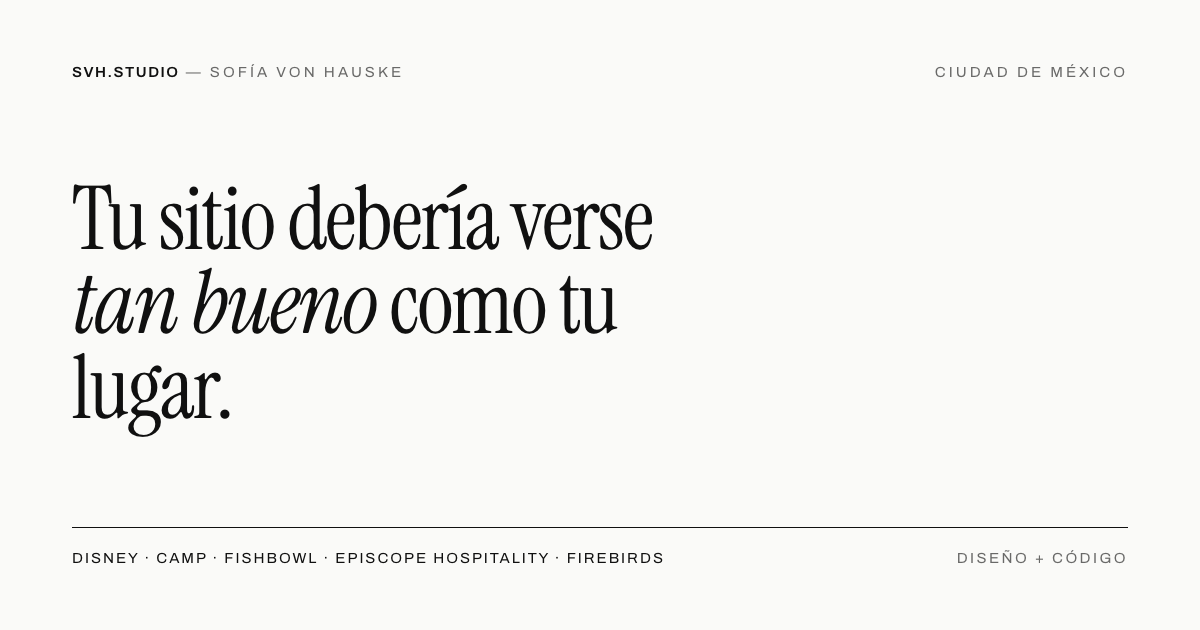
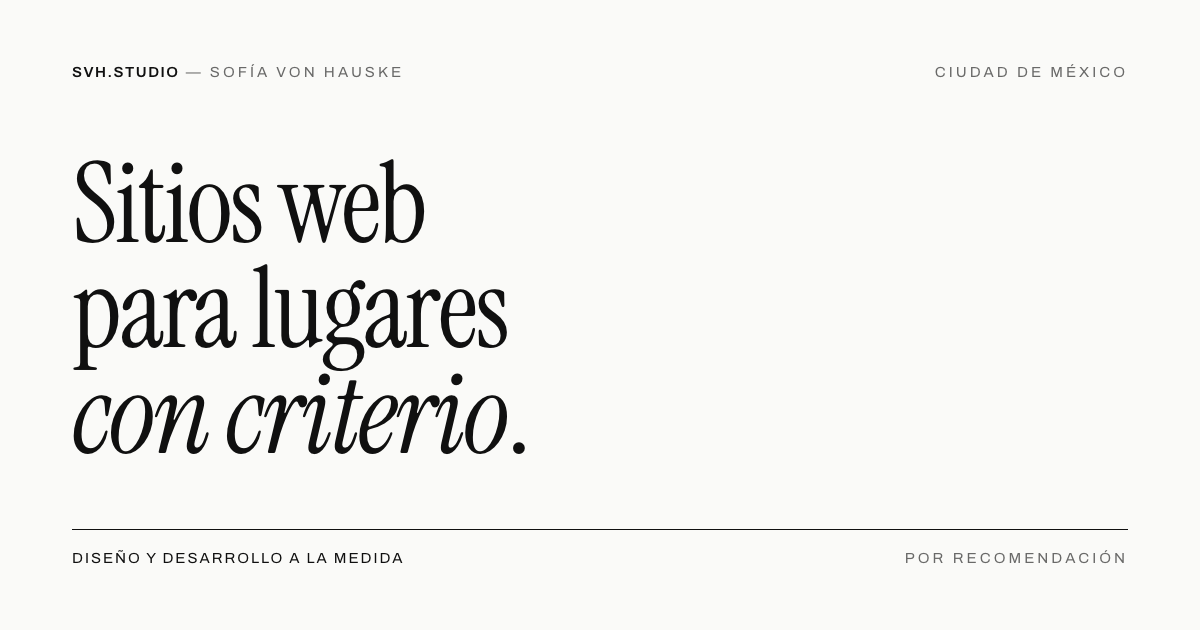
Copy: más preciso, más técnico, sin vender
Titular "Sitios web para lugares con criterio"; la entrada nombra lo que
se construye (código propio, panel, SEO técnico) y que el estudio trabaja
por recomendación. Pies con contexto y datos técnicos verificables;
Estudio con fichas de Capacidades y Clientes; Nuevos proyectos sin la
promesa de "el mismo día"; colofón que dice cómo está hecho el sitio.
Fuera del JSON-LD el catálogo de paquetes que ya no existe. og.png nuevo.

diff --git a/index.html b/index.html
@@ -3,8 +3,8 @@
 <head>
 <meta charset="utf-8">
 <meta name="viewport" content="width=device-width, initial-scale=1">
-<title>Sitios web para restaurantes en CDMX — SvH Studio</title>
-<meta name="description" content="Diseño y programo sitios web a la medida para restaurantes, cafés y bares en la Ciudad de México. Con panel propio para que lo manejes tú.">
+<title>SvH Studio — Sitios web para restaurantes en CDMX</title>
+<meta name="description" content="Estudio de diseño y desarrollo web para restaurantes, cafés y bares de la Ciudad de México. Código propio, panel de administración y SEO técnico. Por recomendación.">
 <link rel="canonical" href="https://svh.studio/">
 <meta name="theme-color" content="#4F0D00">
 <meta name="color-scheme" content="light">
@@ -12,12 +12,12 @@
 <meta property="og:type" content="website">
 <meta property="og:locale" content="es_MX">
 <meta property="og:url" content="https://svh.studio/">
-<meta property="og:title" content="Sitios web para restaurantes en CDMX — SvH Studio">
-<meta property="og:description" content="Diseño y programo sitios a la medida para restaurantes, cafés y bares. Con panel propio para que lo manejes tú.">
+<meta property="og:title" content="SvH Studio — Sitios web para lugares con criterio">
+<meta property="og:description" content="Diseño y desarrollo a la medida para restaurantes, cafés y bares de la Ciudad de México.">
 <meta property="og:image" content="https://svh.studio/og.png">
 <meta property="og:image:width" content="1200">
 <meta property="og:image:height" content="630">
-<meta property="og:image:alt" content="svh.studio — Tu sitio debería verse tan bueno como tu lugar.">
+<meta property="og:image:alt" content="svh.studio — Sitios web para lugares con criterio.">
 <meta property="og:site_name" content="SvH Studio">
 <meta name="twitter:card" content="summary_large_image">
 
@@ -47,7 +47,7 @@
     "es-MX",
     "en"
    ],
-   "description": "Diseño y programación de sitios web a la medida para restaurantes, cafés y bares en la Ciudad de México, con panel de administración propio.",
+   "description": "Estudio de diseño y desarrollo web a la medida para restaurantes, cafés y bares de la Ciudad de México: código propio, panel de administración y SEO técnico.",
    "founder": {
     "@id": "https://svh.studio/#sofia"
    },
@@ -92,55 +92,18 @@
    ],
    "serviceType": [
     "Diseño de sitios web para restaurantes",
-    "Desarrollo web",
-    "Carta digital",
+    "Desarrollo web a la medida",
+    "Paneles de administración",
+    "SEO técnico",
     "Pedidos por WhatsApp",
-    "Tienda en línea"
-   ],
-   "hasOfferCatalog": {
-    "@type": "OfferCatalog",
-    "name": "Qué construyo",
-    "itemListElement": [
-     {
-      "@type": "Offer",
-      "itemOffered": {
-       "@type": "Service",
-       "name": "Esencial",
-       "description": "Carta, horarios, mapa, fotos y WhatsApp, listo para que Google te encuentre."
-      }
-     },
-     {
-      "@type": "Offer",
-      "itemOffered": {
-       "@type": "Service",
-       "name": "Completo",
-       "description": "Varias secciones, galería, historia y panel para actualizar carta, precios y fotos."
-      }
-     },
-     {
-      "@type": "Offer",
-      "itemOffered": {
-       "@type": "Service",
-       "name": "Con pedidos",
-       "description": "Pedidos que se cierran por WhatsApp, sin comisión de aplicación. Catálogo con inventario."
-      }
-     },
-     {
-      "@type": "Offer",
-      "itemOffered": {
-       "@type": "Service",
-       "name": "Grupos",
-       "description": "Varias sucursales bajo una misma marca en un solo sitio."
-      }
-     }
-    ]
-   }
+    "Comercio en línea"
+   ]
   },
   {
    "@type": "Person",
    "@id": "https://svh.studio/#sofia",
    "name": "Sofía von Hauske",
-   "jobTitle": "Diseñadora y desarrolladora de producto digital",
+   "jobTitle": "Diseñadora de producto y desarrolladora",
    "email": "hola@svh.studio",
    "url": "https://svh.studio/",
    "alumniOf": {
@@ -244,10 +207,12 @@
       <span>Ciudad de México <span class="hora" aria-hidden="true">· 00<span class="dos">:</span>00</span></span>
     </div>
 
-    <h1><span>Tu sitio debería</span> <span>verse <em>tan bueno</em></span> <span>como tu lugar.</span></h1>
+    <h1><span>Sitios web</span> <span>para lugares</span> <span><em>con criterio</em>.</span></h1>
 
     <p class="lede">
-      Diseño y programo sitios para restaurantes, cafés y bares en la Ciudad de México.
+      Diseño y desarrollo a la medida para restaurantes, cafés y bares de la
+      Ciudad de México: código propio, panel de administración y SEO técnico
+      desde el primer día. Trabajo por recomendación.
     </p>
   </header>
 
@@ -272,8 +237,8 @@
       </div>
       <div class="cap">
         <h3 class="n">Jabalí</h3>
-        <p class="ctx">La Hacienda El Jabalí lleva tres generaciones sembrando café en Zongolica, y sus pedidos siempre han pasado por WhatsApp.</p>
-        <p class="meta">Café de especialidad · Tienda con pedidos por WhatsApp · Panel</p>
+        <p class="ctx">Tres generaciones de café en la sierra de Zongolica. El catálogo arma el pedido y lo entrega a WhatsApp, ya escrito.</p>
+        <p class="meta">Comercio en línea · Pedidos vía WhatsApp · Panel de inventario</p>
         <a class="visita" href="https://www.jabali.mx" target="_blank" rel="noopener">Ver el sitio · jabali.mx<svg class="ico" viewBox="0 0 24 24" aria-hidden="true"><path d="M7 17 17 7M8.5 7H17v8.5"/></svg></a>
       </div>
     </li>
@@ -290,8 +255,8 @@
       </div>
       <div class="cap">
         <h3 class="n">Madrizza</h3>
-        <p class="ctx">Abrieron dentro de un mercado y todavía no tenían logotipo.</p>
-        <p class="meta">Pizzería de barrio · Logotipo, carta y pedidos</p>
+        <p class="ctx">Una pizzería de barrio dentro de un mercado, que abrió sin identidad propia. Logotipo, color y una carta pensada para el teléfono.</p>
+        <p class="meta">Identidad · Carta digital · Pedidos por Uber Eats y Rappi</p>
         <a class="visita" href="https://madrizza.vercel.app" target="_blank" rel="noopener">Ver el sitio<svg class="ico" viewBox="0 0 24 24" aria-hidden="true"><path d="M7 17 17 7M8.5 7H17v8.5"/></svg></a>
       </div>
     </li>
@@ -308,8 +273,8 @@
       </div>
       <div class="cap">
         <h3 class="n">Finca Coyametla</h3>
-        <p class="ctx">Coyametla le vende grano a tostadores de México y de&nbsp;fuera.</p>
-        <p class="meta">Finca de café · Sitio en español e inglés</p>
+        <p class="ctx">Una finca de 1830 que le vende a tostadores de México y del extranjero. Un sitio en dos idiomas, escrito para cada mercado y no&nbsp;traducido.</p>
+        <p class="meta">Bilingüe ES/EN · Contenido por mercado · Galería</p>
         <a class="visita" href="https://finca-coyametla.vercel.app/es" target="_blank" rel="noopener">Ver el sitio<svg class="ico" viewBox="0 0 24 24" aria-hidden="true"><path d="M7 17 17 7M8.5 7H17v8.5"/></svg></a>
       </div>
     </li>
@@ -326,8 +291,8 @@
       </div>
       <div class="cap">
         <h3 class="n">El Algo</h3>
-        <p class="ctx">Un bar donde eliges la botella y te sirves tú, que todavía no abre. El sitio va sobre la marca de IS&nbsp;A&nbsp;JAR.</p>
-        <p class="meta">Wine bar, antes de abrir · Sitio sobre la marca de IS&nbsp;A&nbsp;JAR</p>
+        <p class="ctx">Un wine bar donde cada quien elige su botella y se sirve. El sitio lo explica antes de abrir, sobre la identidad de IS&nbsp;A&nbsp;JAR.</p>
+        <p class="meta">Preapertura · Animación ligada al scroll · SEO local</p>
         <a class="visita" href="https://www.elalgo.mx" target="_blank" rel="noopener">Ver el sitio · elalgo.mx<svg class="ico" viewBox="0 0 24 24" aria-hidden="true"><path d="M7 17 17 7M8.5 7H17v8.5"/></svg></a>
       </div>
     </li>
@@ -344,8 +309,8 @@
       </div>
       <div class="cap">
         <h3 class="n">Celita</h3>
-        <p class="ctx">Un café en Pachuca 13, en la Condesa, sobre la marca de Acuña&nbsp;Studio.</p>
-        <p class="meta">Café y pan en la Condesa · Carta y cómo llegar</p>
+        <p class="ctx">Café y pan en Pachuca 13, Condesa. Carta, horario y cómo llegar en una sola página, sobre la identidad de Acuña&nbsp;Studio.</p>
+        <p class="meta">Carta digital · Tarjeta para WhatsApp · Animación SVG</p>
         <a class="visita" href="https://www.celita.mx" target="_blank" rel="noopener">Ver el sitio · celita.mx<svg class="ico" viewBox="0 0 24 24" aria-hidden="true"><path d="M7 17 17 7M8.5 7H17v8.5"/></svg></a>
       </div>
     </li>
@@ -368,35 +333,39 @@
 
   <!-- ══════════ QUIÉN SOY ══════════ -->
   <section class="grp revela">
-    <h2 class="grp-label"><span>Quién soy</span></h2>
+    <h2 class="grp-label"><span>Estudio</span></h2>
 
     <div class="row sin-cifra">
       <span class="n">Sofía von Hauske</span>
-      <span class="d">Fui la única diseñadora de una plataforma que usan 50 mil restaurantes en Estados Unidos. Estudié en Parsons.</span>
-      <ul class="names">
-        <li>Gia · Hipódromo Condesa</li>
-        <li>Fishbowl</li>
-        <li>Episcope Hospitality</li>
-        <li>Firebirds Grill</li>
-      </ul>
+      <span class="d">Antes de abrir el estudio fui la única diseñadora de producto de una plataforma que usan más de 50 mil restaurantes en Estados Unidos: reservaciones, lealtad y perfil del comensal. Formación en Parsons, Nueva York.</span>
+      <dl class="fichas">
+        <div>
+          <dt>Capacidades</dt>
+          <dd>Diseño de producto · Desarrollo a la medida · Paneles de administración · SEO técnico · Pedidos y reservaciones</dd>
+        </div>
+        <div>
+          <dt>Clientes</dt>
+          <dd>Gia · Hipódromo Condesa · Fishbowl · Episcope Hospitality · Firebirds Grill</dd>
+        </div>
+      </dl>
     </div>
   </section>
 
   <!-- ══════════ ESCRÍBEME ══════════ -->
   <section class="grp revela">
-    <h2 class="grp-label"><span>Escríbeme</span></h2>
+    <h2 class="grp-label"><span>Nuevos proyectos</span></h2>
 
     <div class="row row--cta">
       <button class="n copiar" type="button" data-copiar="hola@svh.studio">hola@svh.studio</button>
       <i class="lead" aria-hidden="true">&#8203;</i>
-      <span class="d">Dime tu lugar y qué necesitas. Te contesto el mismo día con precio y fecha.</span>
-      <a class="v act" href="mailto:hola@svh.studio?subject=Un%20sitio%20para%20mi%20lugar&amp;body=Hola%20Sof%C3%ADa.%0A%0AMi%20lugar%20es%20______%2C%20en%20______.%0ALo%20que%20necesito%3A%20______">Escribir<svg class="ico" viewBox="0 0 24 24" aria-hidden="true"><path d="M4.5 12h15M13.5 6l6 6-6 6"/></svg></a>
+      <span class="d">Cuéntame de tu lugar y del alcance que imaginas. Te respondo yo, con propuesta técnica y calendario.</span>
+      <a class="v act" href="mailto:hola@svh.studio?subject=Nuevo%20proyecto&amp;body=Hola%2C%20Sof%C3%ADa.%0A%0AEl%20lugar%3A%20______%0AD%C3%B3nde%3A%20______%0ALo%20que%20tengo%20en%20mente%3A%20______">Escribir<svg class="ico" viewBox="0 0 24 24" aria-hidden="true"><path d="M4.5 12h15M13.5 6l6 6-6 6"/></svg></a>
     </div>
   </section>
 
   <footer class="colofon revela">
-    <p class="frase">Este sitio también lo diseñé y programé yo.</p>
-    <p class="dom">svh.studio · Ciudad de México</p>
+    <p class="frase">Diseñado y programado a mano: HTML, CSS y JavaScript, sin plantillas ni&nbsp;terceros.</p>
+    <p class="dom">© 2026 SvH Studio · Ciudad de México</p>
   </footer>
 
 </main>

diff --git a/site.css b/site.css
@@ -75,7 +75,7 @@ a{color:inherit}
   line-height:var(--lh-tight);letter-spacing:var(--ls-row)}
 .row .d,.cap .ctx{font-size:var(--t-lede);line-height:1.45;color:var(--svh-dim);
   max-width:40ch;text-wrap:pretty}
-.meta,.names{font-size:var(--t-label);letter-spacing:var(--ls-names);text-transform:uppercase;
+.meta{font-size:var(--t-label);letter-spacing:var(--ls-names);text-transform:uppercase;
   line-height:1.6;color:var(--svh-ink)}
 
 /* Fila: nombre — guía de puntos — acción, y la frase debajo. */
@@ -88,10 +88,16 @@ a{color:inherit}
 .row .v{grid-column:3;grid-row:1;justify-self:end}
 .row .d{grid-column:1/-1;grid-row:2;margin:0}
 .row.sin-cifra{grid-template-columns:1fr}
-.names{grid-row:3;display:flex;flex-wrap:wrap;gap:var(--s1) var(--s3);list-style:none;
-  margin:var(--s1) 0 0;padding:0}
-.names li::after{content:"·";margin-left:var(--s3);color:var(--svh-faint)}
-.names li:last-child::after{content:""}
+/* Fichas: Capacidades y Clientes, como la hoja técnica de un proyecto.
+   La etiqueta atenuada a la izquierda, el dato en tinta; en el celular,
+   una encima de otra. Comparten tipo con .meta: versalitas de 12px. */
+.fichas{grid-row:3;margin:var(--s4) 0 0;display:grid;gap:var(--s3)}
+.fichas div{display:grid;gap:var(--s1);padding-top:var(--s3);border-top:1px solid var(--svh-rule)}
+.fichas dt,.fichas dd{margin:0;font-size:var(--t-label);letter-spacing:var(--ls-names);
+  text-transform:uppercase;line-height:1.6}
+.fichas dt{color:var(--svh-dim)}
+.fichas dd{color:var(--svh-ink);max-width:62ch}
+@media (min-width:640px){.fichas div{grid-template-columns:10rem 1fr;gap:var(--s4)}}
 
 /* Correo: la dirección se copia; el verbo abre el correo. Dos salidas,
    porque el mailto falla en silencio cuando no hay app de correo. */
